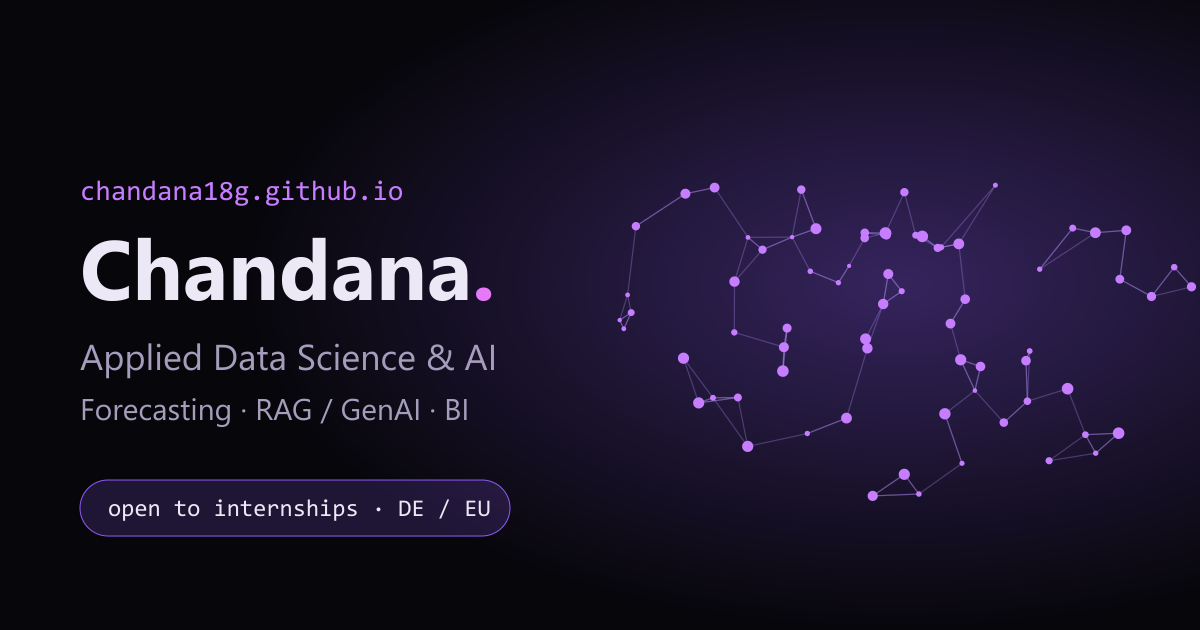
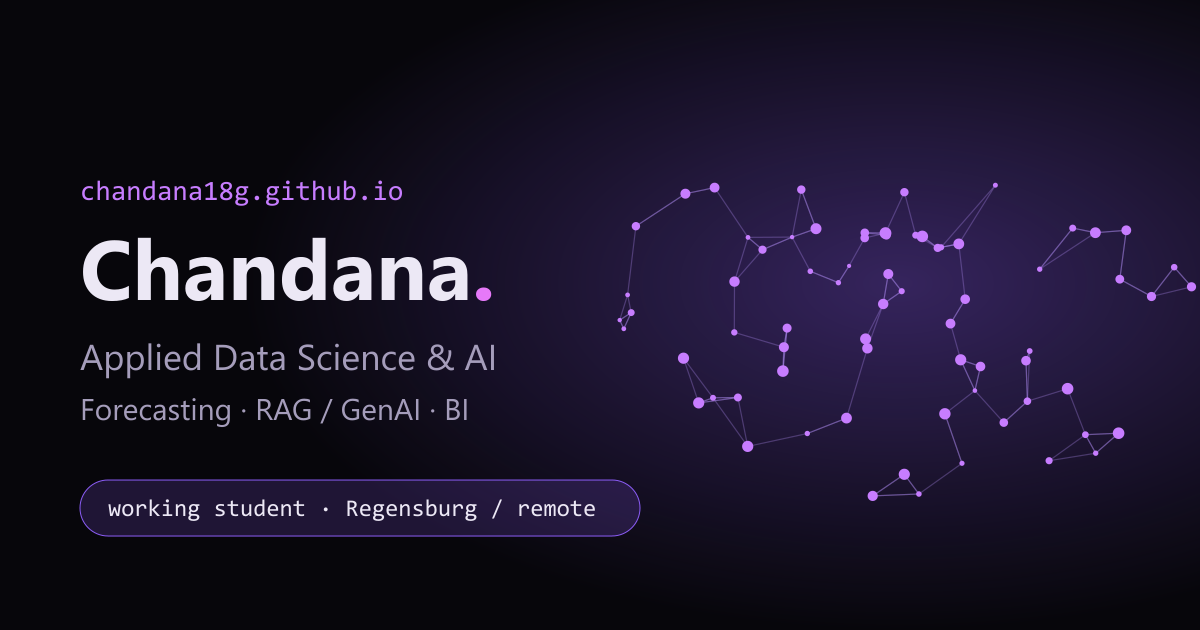
Update job search: working student in Regensburg or remote
Removes the Pflichtpraktikum/internship wording from the hero, contact
page, about bio, at-a-glance card, meta description and OG image.

Changed region(s): [[0.0925, 0.754, 0.555, 0.8746]]

diff --git a/src/i18n/en.ts b/src/i18n/en.ts
@@ -3,7 +3,7 @@
 export const en = {
   'site.title': 'Chandana — Applied Data Science & AI',
   'site.description':
-    'Portfolio of Chandana, M.Sc. Applied Data Science & AI student in Germany. Forecasting, RAG and generative AI, and BI projects. Open to internships and working-student roles.',
+    'Portfolio of Chandana, M.Sc. Applied Data Science & AI student in Germany. Forecasting, RAG and generative AI, and BI projects. Open to working-student roles in Regensburg or remote.',
 
   'skip': 'Skip to main content',
   'nav.home': 'Home',
@@ -23,7 +23,7 @@ export const en = {
   'home.eyebrow': 'hello, world',
   'home.greeting': "Hi, I'm",
   'home.lede':
-    'I study Applied Data Science & AI in Munich and build forecasting models, retrieval-augmented assistants and dashboards that people actually use. Currently looking for a 6-month internship (Pflichtpraktikum) or a working-student role in Germany or Europe.',
+    'I study Applied Data Science & AI in Munich and build forecasting models, retrieval-augmented assistants and dashboards that people actually use. Currently looking for a working-student role in Regensburg or remote.',
   'home.cta.projects': 'See projects',
   'home.cta.contact': 'Get in touch',
   'home.featured': 'Featured projects',
@@ -43,7 +43,7 @@ export const en = {
   'glance.focusValue': 'time-series forecasting · RAG / GenAI · BI',
   'glance.stackValue': 'Python · SQL · pandas · scikit-learn · LangChain · Power BI',
   'glance.basedValue': 'Regensburg, DE',
-  'glance.seekingValue': 'internship · working student',
+  'glance.seekingValue': 'working student · Regensburg / remote',
 
   'projects.title': 'Projects',
   'projects.lede': 'Things I have built, am building, or plan to build.',
@@ -72,7 +72,7 @@ export const en = {
 
   'contact.title': 'Contact',
   'contact.lede':
-    'I am looking for a 6-month mandatory internship (Pflichtpraktikum) and working-student roles in data science, ML or AI engineering. The fastest way to reach me is email.',
+    'I am looking for a working-student role (Werkstudent) in data science, ML or AI engineering, in Regensburg or remote. The fastest way to reach me is email.',
   'contact.email': 'Email',
   'contact.github': 'GitHub',
   'contact.linkedin': 'LinkedIn',

diff --git a/src/data/about.ts b/src/data/about.ts
@@ -3,7 +3,7 @@
 export const bio: string[] = [
   "I'm Chandana, an M.Sc. student in Applied Data Science & AI at SRH University's Munich campus. I live in Regensburg, Bavaria, and grew up in Mysuru, India.",
   'I like problems where data meets a real decision: forecasting energy prices, anticipating clinical needs, or helping someone find the right answer in a pile of documents. I care about models that are useful, explainable and responsibly built, not just accurate on a benchmark.',
-  "I'm looking for a 6-month mandatory internship (Pflichtpraktikum) and working-student roles in Germany or Europe, in industry teams working on data science, machine learning or applied generative AI.",
+  "I'm looking for a working-student role (Werkstudent) in Regensburg or remote, in an industry team working on data science, machine learning or applied generative AI.",
 ];
 
 export interface EducationItem {
